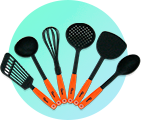
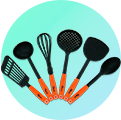
qwe

diff --git a/css/style.min.css b/css/style.min.css
@@ -1,2 +1,2 @@
 body,h2{color:#000}.subtitle,h2{text-align:center}@font-face{font-family:Stem;src:url(../fonts/EM-Stem/OTF/Stem-Regular.otf);font-weight:400}@font-face{font-family:Stem;font-family:Stem;src:url(../fonts/EM-Stem/OTF/Stem-Bold.otf);font-weight:700}@font-face{font-family:Stem;src:url(../fonts/EM-Stem/OTF/Stem-Medium.otf);font-weight:500}@font-face{font-family:Stem;src:url(../fonts/EM-Stem/OTF/Stem-Light.otf);font-weight:light}body{font-family:Stem;font-weight:400}section{padding:50px 0}h2{font-size:36px;margin:0}.subtitle,h3{font-size:18px}.subtitle{font-weight:medium;color:#777;margin:15px 0 0}.white{color:#fff}.gray{color:#9d9d9d}.phone{font-size:24px;font-weight:700}.bg-lightblue{background:#F3F7F8}.first-screen{height:100vh;background:url(../img/first-screen-bg.jpg);background-size:cover;padding:0}.first-screen:before{content:"";position:absolute;width:100%;height:100vh;background:rgba(0,0,0,.7)}.advantages img,.free-service img{text-align:center;width:100%;height:auto}.big-text{font-family:Stem,PT Sans;font-weight:700;font-size:48px;color:#fff;margin-top:10%}.advantages{text-align:center;margin:40px 0 0}.advantages img{border-radius:50%}.advantages p{font-size:18px;font-weight:500;text-align:center;margin:20px 0 0}.blue-block{background-image:linear-gradient(-20deg,#00cdac 0,#8ddad5 100%)}.blue-block p{font-size:24px;color:#fff}.free-service{text-align:center;margin:40px 0 0}.free-service>.img{width:145px;height:145px;display:inline-block;vertical-align:middle}.callback-form input,.callback-form input:focus{height:50px;display:inline-block;width:100%;background:0 0;border-top:0;border-left:0;border-radius:0;border-right:0;box-shadow:none}.free-service p{font-size:18px;text-align:center;margin:20px 0 0}.no-parking{margin-top:40px;font-size:18px;font-weight:700;text-align:left}.no-parking img{text-align:right;float:left;margin-right:10px}.no-parking p{font-size:16px;font-weight:100;margin-top:2px;color:#777;overflow:hidden}.callback-form{margin:20px 0}.callback-form input{,
-	di vertical-align:middle;border-bottom:3px solid #B8EEEE}.callback-form input:focus{vertical-align:middle;border-bottom:3px solid #fff;outline:0}.bron,.callback-form button{border-bottom:2px solid #B6AA46;font-weight:700}input::-webkit-input-placeholder{opacity:1;transition:opacity .3s ease;font-size:20px;color:#B8EEEE}input::-moz-placeholder{opacity:1;transition:opacity .3s ease}input:-moz-placeholder{opacity:1;transition:opacity .3s ease;font-size:20px;color:#B8EEEE}input:-ms-input-placeholder{opacity:1;transition:opacity .3s ease}input:focus::-webkit-input-placeholder{opacity:0;transition:opacity .3s ease}input:focus::-moz-placeholder{opacity:0;transition:opacity .3s ease}input:focus:-moz-placeholder{opacity:0;transition:opacity .3s ease}input:focus:-ms-input-placeholder{opacity:0;transition:opacity .3s ease}.callback-form button{background-image:linear-gradient(to top,#FCD029 0,#FFF273 100%);height:50px;width:200px;border-radius:10px;font-size:18px;margin-left:15px}.rooms{border-radius:10px;padding:0 0 10px;margin:20px 0;background:#fff;-webkit-box-shadow:0 0 15px 0 rgba(184,184,184,1);-moz-box-shadow:0 0 15px 0 rgba(184,184,184,1);box-shadow:0 0 15px 0 rgba(184,184,184,1)}.rooms img{width:100%;height:200px;border-radius:10px 10px 0 0}.rooms p{font-size:16px}.bron,.rools,.subtext{font-size:18px}.rooms h3{margin:10px 0 20px}.body-card{padding:10px 30px}.price{color:#ff003c;font-weight:700}.bron{background-image:linear-gradient(to top,#FCD029 0,#FFF273 100%);height:50px;width:100%;border-radius:10px;box-shadow:none;margin-bottom:20px}.rools{margin-top:40px}.navbar{margin:0}.navbar-contacts{text-align:right;margin:15px 15px 0 0}.nav a{font-size:16px;font-weight:500;color:#000!important;text-transform:uppercase;margin-left:20px}@media (max-width:768px){.subtitle,h2{text-align:center}section{padding:20px 0}h2{font-size:24px;color:#000;margin:0 0 30px}h2+.subtitle{margin-top:-20px}h3{font-size:18px}.subtitle{font-size:16px;color:#777;margin:15px 0 0}.big-text{font-size:26px}.blue-block p{font-size:18px}.no-parking p,.rools p{font-size:14px}.free-service{margin:0}.free-service p{font-size:14px;margin:5px 0 15px;font-weight:100}.callback-form button{margin:20px auto 0}.rools{margin-top:0}}
+	di vertical-align:middle;border-bottom:3px solid #B8EEEE}.callback-form input:focus{vertical-align:middle;border-bottom:3px solid #fff;outline:0}.bron,.callback-form button{border-bottom:2px solid #B6AA46;font-weight:700}input::-webkit-input-placeholder{opacity:1;transition:opacity .3s ease;font-size:20px;color:#B8EEEE}input::-moz-placeholder{opacity:1;transition:opacity .3s ease}input:-moz-placeholder{opacity:1;transition:opacity .3s ease;font-size:20px;color:#B8EEEE}input:-ms-input-placeholder{opacity:1;transition:opacity .3s ease}input:focus::-webkit-input-placeholder{opacity:0;transition:opacity .3s ease}input:focus::-moz-placeholder{opacity:0;transition:opacity .3s ease}input:focus:-moz-placeholder{opacity:0;transition:opacity .3s ease}input:focus:-ms-input-placeholder{opacity:0;transition:opacity .3s ease}.callback-form button{background-image:linear-gradient(to top,#FCD029 0,#FFF273 100%);height:50px;width:200px;border-radius:10px;font-size:18px;margin-left:15px}.rooms{border-radius:10px;padding:0 0 10px;margin:20px 0;background:#fff;-webkit-box-shadow:0 0 15px 0 rgba(184,184,184,1);-moz-box-shadow:0 0 15px 0 rgba(184,184,184,1);box-shadow:0 0 15px 0 rgba(184,184,184,1)}.rooms img{width:100%;height:200px;border-radius:10px 10px 0 0}.rooms p{font-size:16px}.bron,.rools,.subtext{font-size:18px}.rooms h3{margin:10px 0 20px}.body-card{padding:10px 30px}.price{color:#ff003c;font-weight:700}.bron{background-image:linear-gradient(to top,#FCD029 0,#FFF273 100%);height:50px;width:100%;border-radius:10px;box-shadow:none;margin-bottom:20px}.rools{margin-top:40px}.navbar{margin:0}.navbar-contacts{text-align:right;margin:15px 15px 0 0}.nav a{font-size:16px;font-weight:500;color:#000!important;text-transform:uppercase;margin-left:20px}@media (max-width:768px){.subtitle,h2{text-align:center}section{padding:20px 0}h2{font-size:24px;color:#000;margin:0 0 30px}h2+.subtitle{margin-top:-20px}h3{font-size:18px}.subtitle{font-size:16px;color:#777;margin:15px 0 0}.big-text{font-size:26px}.blue-block p{font-size:18px}.no-parking p,.rools p{font-size:14px}.free-service{margin:0}.free-service p{font-size:14px;margin:5px 0 15px;font-weight:100}.callback-form button{margin:20px auto 0}.rools{margin-top:0}.free-service>.img{width:100px;height:100px;display:inline-block;vertical-align:middle;background-size:80%!important}}

diff --git a/css/style.css b/css/style.css
@@ -134,8 +134,8 @@ h3 {
 .free-service>.img {
 	width: 145px;
 	height: 145px;
-	display:inline-block;
-vertical-align: middle;
+	display: inline-block;
+	vertical-align: middle;
 }
 
 .free-service p {
@@ -381,5 +381,12 @@ input:-moz-placeholder {
 	}
 	.rools p {
 		font-size: 14px;
+	}
+	.free-service>.img {
+		width: 100px;
+		height: 100px;
+		display: inline-block;
+		vertical-align: middle;
+		background-size: 80% !important;
 	}
 }
